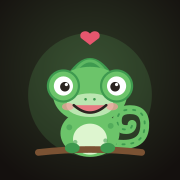
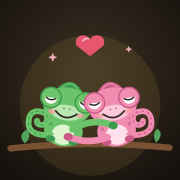
Нова іконка: два хамелеончики обіймаються
Claude-Session: https://claude.ai/code/session_01VzdfxJyxPVyo6PN33hqS2G

diff --git a/js/ui.js b/js/ui.js
@@ -107,7 +107,7 @@ export const PALETTE = {
   grey: ['#9FB3A3', '#6F8475', '#E3ECE5'],
 };
 // face: happy | ok | sad | love | sleep ; pose: sit | wave ; water (kept name) → branch with leaves
-export function otter({ face = 'happy', pose = 'sit', water = false, outfit = '', size = 160, bob = false, color } = {}) {
+export function otter({ face = 'happy', pose = 'sit', water = false, outfit = '', size = 160, bob = false, color, branch: showBranch = true } = {}) {
   const col = color || { love: 'pink', sad: 'blue', ok: 'yellow' }[face] || 'green';
   const [c, d, l] = PALETTE[col] || PALETTE.green;
   const ink = '#2B2420', blush = '#F49A9A';
@@ -136,7 +136,7 @@ export function otter({ face = 'happy', pose = 'sit', water = false, outfit = ''
     <ellipse cx="100" cy="150" rx="40" ry="32" fill="${c}"/>
     <ellipse cx="100" cy="158" rx="23" ry="21" fill="${l}"/>
     <g fill="${d}" opacity=".55"><circle cx="72" cy="142" r="4"/><circle cx="128" cy="140" r="4"/><circle cx="80" cy="162" r="3"/><circle cx="121" cy="160" r="3"/></g>
-    ${branch}
+    ${showBranch ? branch : ''}
     ${arms}
     <path d="M70 70 Q100 26 130 70 Z" fill="${d}"/>
     <path d="M80 66 Q100 38 120 66" stroke="${c}" stroke-width="4" fill="none" opacity=".7"/>

diff --git a/index.html b/index.html
@@ -7,8 +7,8 @@
   <meta name="description" content="Затишний куточок для двох">
   <meta name="theme-color" content="#14100E">
   <link rel="manifest" href="/manifest.webmanifest">
-  <link rel="icon" href="/icons/icon.svg" type="image/svg+xml">
-  <link rel="apple-touch-icon" href="/icons/apple-touch-icon.png">
+  <link rel="icon" href="/icons/icon.svg?v=2" type="image/svg+xml">
+  <link rel="apple-touch-icon" href="/icons/apple-touch-icon.png?v=2">
   <meta name="apple-mobile-web-app-capable" content="yes">
   <meta name="mobile-web-app-capable" content="yes">
   <meta name="apple-mobile-web-app-status-bar-style" content="black-translucent">

diff --git a/sw.js b/sw.js
@@ -1,4 +1,4 @@
-const CACHE = 'hamelyky-v13';
+const CACHE = 'hamelyky-v14';
 const SHELL = [
   '/', '/index.html', '/styles.css', '/manifest.webmanifest',
   '/js/app.js', '/js/games.js', '/js/osm.js', '/js/store.js', '/js/ui.js', '/js/derive.js',
